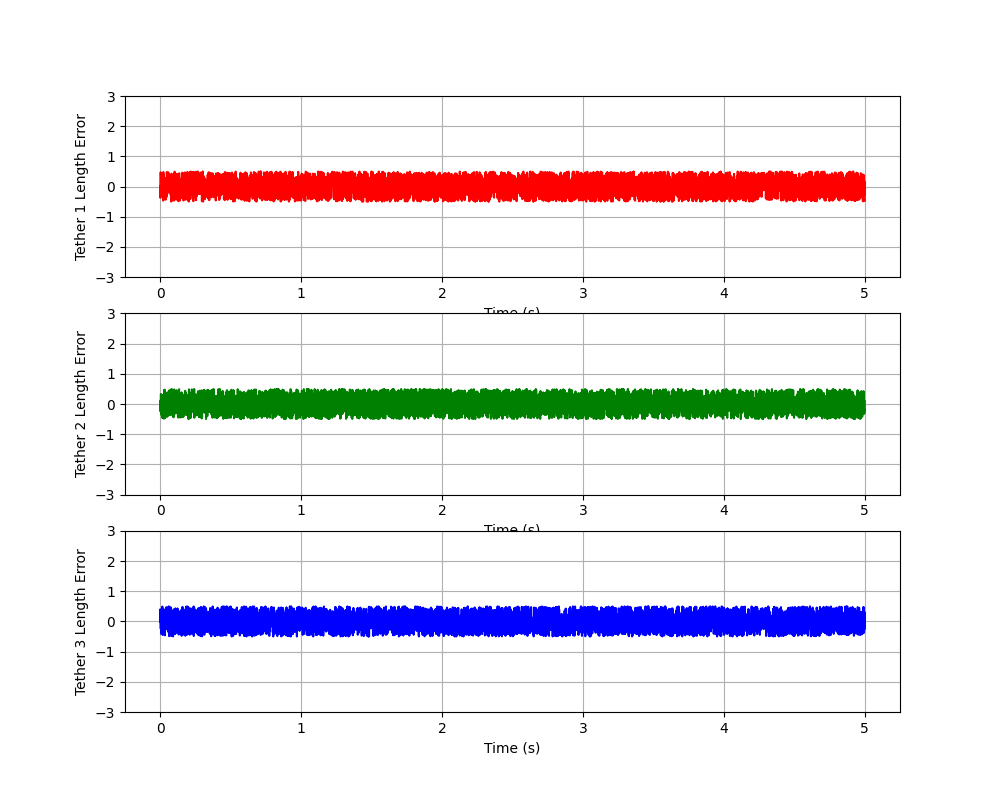
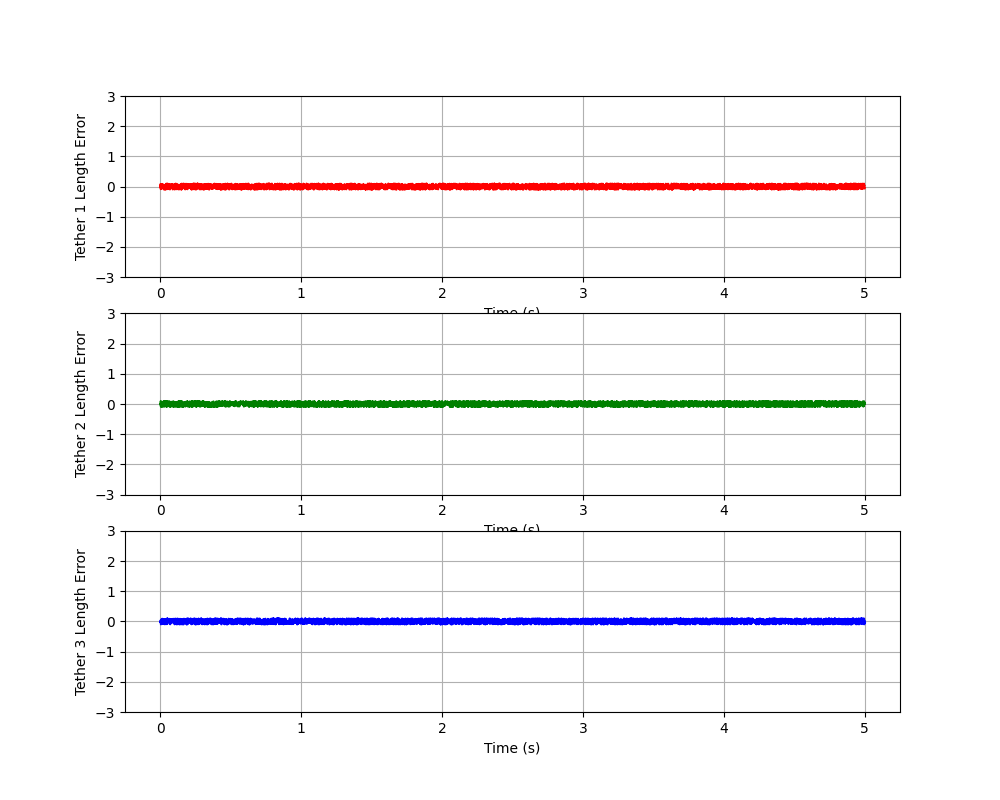
added apex error wrt actual COM plot

Changed region(s): [[0.155, 0.75, 0.868, 0.8125], [0.155, 0.4688, 0.868, 0.5312], [0.155, 0.1875, 0.868, 0.25]]

diff --git a/modeling/dynamic_models/Dynamic_model_3teth_revB.py b/modeling/dynamic_models/Dynamic_model_3teth_revB.py
@@ -134,22 +134,24 @@ def simulate_tilting_motion(time_steps, dt, tilt_axis='x'):
     
     return positions, np.column_stack((x_tilt, y_tilt))
 
-def plot_simulation_results(time_vec, positions, angles, f_errors, ang_errors, torques, tilt_axis, tether1vec, tether2vec, tether3vec, err_teth_one_vec, err_teth_two_vec, err_teth_three_vec):
+def plot_simulation_results(time_vec, positions, angles, f_errors, ang_errors, apex_error, torques, tilt_axis, tether1vec, tether2vec, tether3vec, err_teth_one_vec, err_teth_two_vec, err_teth_three_vec):
     # Set figure size and style for all plots
     plt.style.use('default')
     figsize = (10, 8)
+
+    norm_time = (time_vec - time_vec.min()) / (time_vec.max() - time_vec.min())
     
     # 3D trajectory plot
     fig1 = plt.figure(figsize=figsize)
     ax1 = fig1.add_subplot(111, projection='3d')
-    ax1.plot(positions[:, 0], positions[:, 1], positions[:, 2], color = 'k', linewidth = 3)
+    ax1.plot(positions[:, 0], positions[:, 1], positions[:, 2], color='k', linewidth=3)
     ax1.set_xlabel('X (ft)')
     ax1.set_ylabel('Y (ft)')
     ax1.set_zlabel('Z (ft)')
     ax1.set_title('COM Trajectory')
-    ax1.set_xlim([-3, 3])
-    ax1.set_ylim([-3, 3])
-    ax1.set_zlim([-3, 3])
+    ax1.set_xlim([-2, 2])
+    ax1.set_ylim([-2, 2])
+    ax1.set_zlim([-3, -1])
     ax1.invert_zaxis()
     ax1.grid(True)
     plt.tight_layout()
@@ -213,6 +215,18 @@ def plot_simulation_results(time_vec, positions, angles, f_errors, ang_errors, t
     ax5.set_ylim([0, 4])
     plt.tight_layout()
     plt.savefig('plots/angular_error_3teth.png')
+
+    # apex error plot
+    fig15 = plt.figure(figsize=figsize)
+    ax15 = fig15.add_subplot(111)
+    ax15.plot(time_vec, apex_error)
+    ax15.set_xlabel('Time (s)')
+    ax15.set_ylabel('apex error (ft)')
+    ax15.set_title('Apex Error')
+    ax15.grid(True)
+    ax15.set_ylim([0, 0.5])
+    plt.tight_layout()
+    plt.savefig('plots/apex_error_3teth.png')
 
     # Tether force component plots 
     # Tether 1
@@ -285,6 +299,9 @@ def main():
     # assuming circular radius (pointing from tether attachment loc to COM
     offset = p.offset
 
+    # range of tether error lengths
+    teth_length_error_range = 1/12
+
     # Time parameters
     duration = 5.0  # seconds (5 complete cycles at 1Hz)
     dt = 0.001  # time step (essentially our sensor suite update rate)
@@ -306,14 +323,16 @@ def main():
     t1 = 0
     
     # Set tilt axis ('x' or 'y')
-    tilt_axis = 'x'
+    tilt_axis = 'z'
     
     # Generate COM movement and tilt angles
     positions, tilt_angles = simulate_tilting_motion(time_steps, dt, tilt_axis)
+    apex_vec = np.zeros((time_steps, 3))
     
     # Initialize arrays to store results
     f_errors = np.zeros(time_steps)
     ang_errors = np.zeros(time_steps)
+    apex_error = np.zeros(time_steps)
     torques = np.zeros(time_steps)
     
     # Arrays to store tether force vectors
@@ -335,9 +354,9 @@ def main():
         
         # calculate random tether errors for each time step ranging from -1in to 1in
         if (i != 0):
-            err_teth_one_vec[i] = random.uniform(-(0.5/12),(0.5/12))
-            err_teth_two_vec[i] = random.uniform(-(0.5/12),(0.5/12))
-            err_teth_three_vec[i] = random.uniform(-(0.5/12),(0.5/12))
+            err_teth_one_vec[i] = random.uniform(-teth_length_error_range,teth_length_error_range)
+            err_teth_two_vec[i] = random.uniform(-teth_length_error_range,teth_length_error_range)
+            err_teth_three_vec[i] = random.uniform(-teth_length_error_range,teth_length_error_range)
             # err_teth_one_vec[i] = 0
             # err_teth_two_vec[i] = 0
             # err_teth_three_vec[i] = 0
@@ -347,6 +366,8 @@ def main():
             err_teth_two_vec[i] = 0
             err_teth_three_vec[i] = 0
             apex = calculate_apex(teth_lengths[0], teth_lengths[1], teth_lengths[2], teth_anchor, offset)
+
+        apex_vec[i, :] = apex
 
         # update force at the start
         if i == 0:
@@ -373,14 +394,17 @@ def main():
 
         # Calculate errors and torques
         f_err, ang_err, tether1_vec[i], tether2_vec[i], tether3_vec[i] = calculate_tether_error(COM, f, mass, teth_anchor, offset)
-        
+
         # Store results
+        apex_error[i] = np.linalg.norm(COM-apex)
         f_errors[i] = f_err
         ang_errors[i] = ang_err
         # torques[i] = np.linalg.norm(calculate_applied_torque(COM, tilt_angles[i, 0], tilt_angles[i, 1], f, r))
-    
+
+
     # Plot results
-    plot_simulation_results(time_vec, positions, tilt_angles, f_errors, ang_errors, torques, tilt_axis, tether1_vec, tether2_vec, tether3_vec, err_teth_one_vec, err_teth_two_vec, err_teth_three_vec)
+    plot_simulation_results(time_vec, positions, tilt_angles, f_errors, ang_errors, apex_error, torques, tilt_axis,
+                            tether1_vec, tether2_vec, tether3_vec, err_teth_one_vec, err_teth_two_vec, err_teth_three_vec)
     plt.show()
 
 
